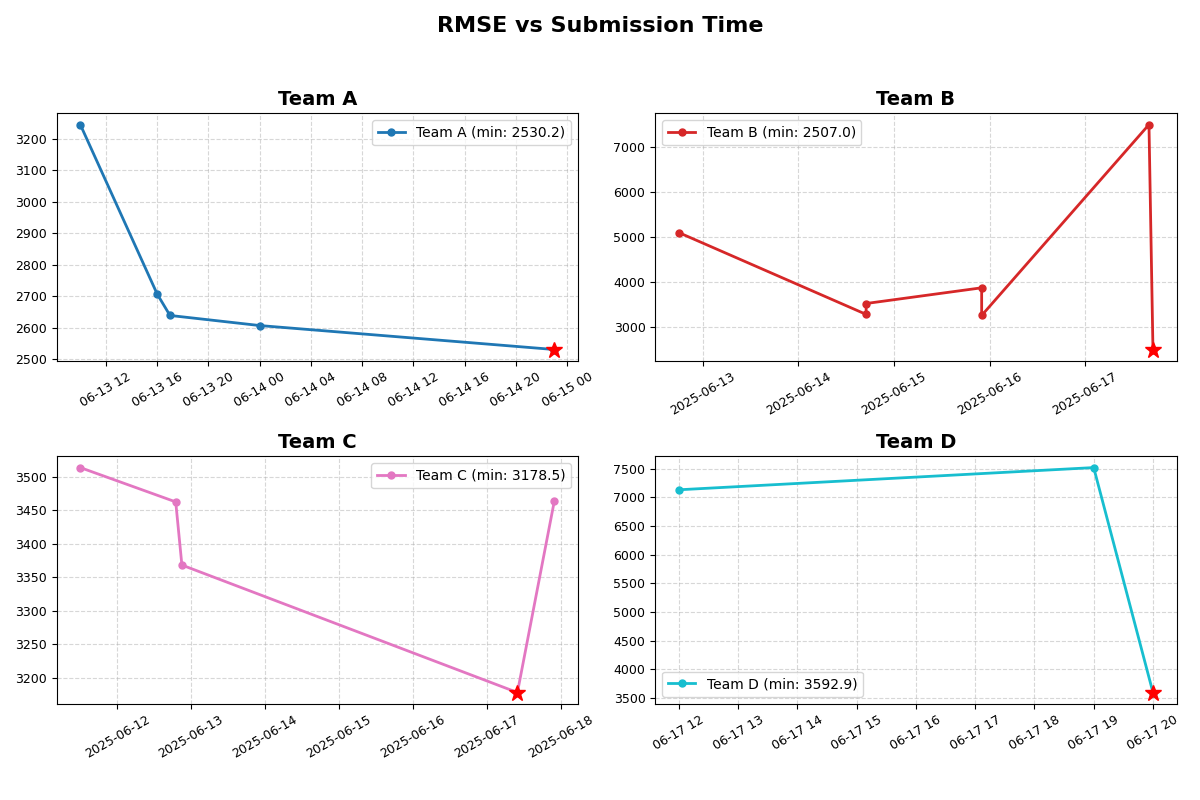
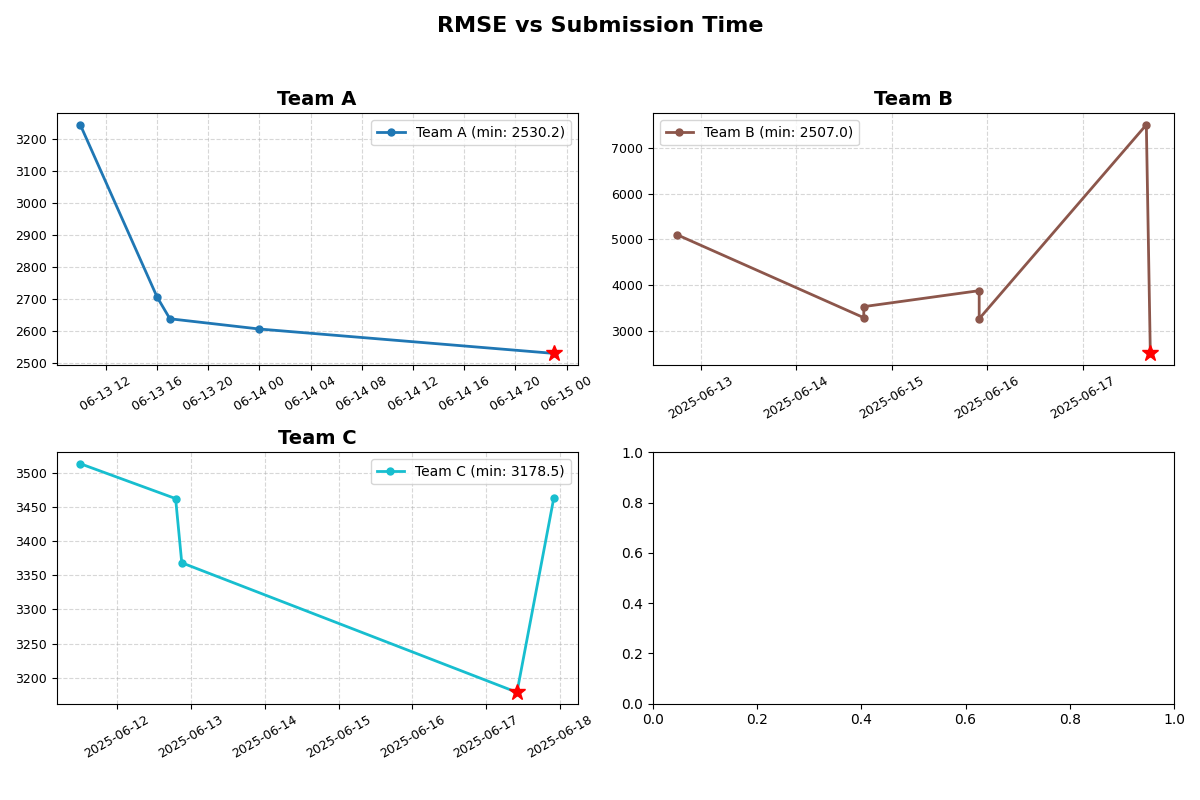
Ranking updated — 2025-06-18

diff --git a/README.md b/README.md
@@ -6,10 +6,10 @@
 | 1    | 팀 B    | 2506.983 |
 | 2    | 팀 A    | 2530.151 |
 | 3    | 팀 C    | 3178.504 |
-| 4    | 팀 D    | 3592.898 |
+|      | 팀 D    |      미제출 |
 
 > 🔁 가장 최근 제출 중 **가장 낮은 RMSE**만 기록됩니다.
-> ⏱ 마지막 업데이트: 2025-06-18 00:15 (KST)
+> ⏱ 마지막 업데이트: 2025-06-18 00:17 (KST)
 ![RMSE Submission Graph](rmse_submission.png)
 
 ---
